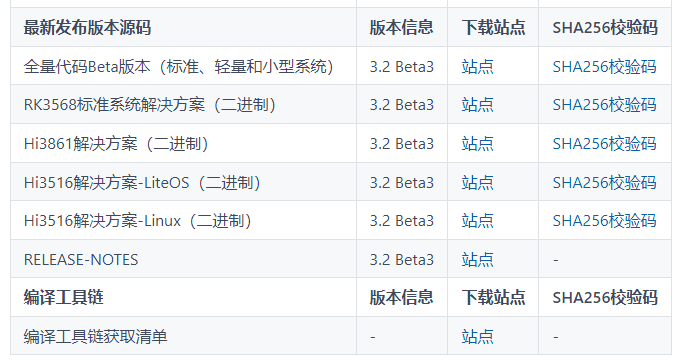
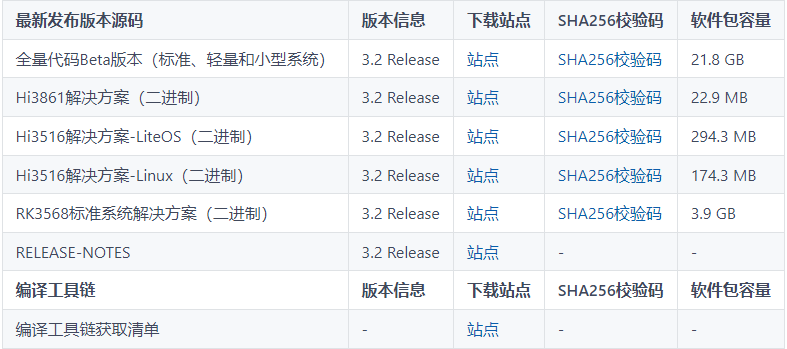
List组件的使用之商品列表（ArkTS）

diff --git a/ETSUI/List/README.md b/ETSUI/List/README.md
@@ -2,7 +2,7 @@
 
 ## 介绍
 
-openHarmony ArkTS提供了丰富的接口和组件，开发者可以根据实际场景和开发需求，选用不同的组件和接口。在本篇CodeLab中，我们使用Scroll、List以及LazyForEach实现一个商品列表的页面，并且拥有下拉刷新，懒加载和到底提示的效果。效果图如下：
+OpenHarmony ArkTS提供了丰富的接口和组件，开发者可以根据实际场景和开发需求，选用不同的组件和接口。在本篇Codelab中，我们使用Scroll、List以及LazyForEach实现一个商品列表的页面，并且拥有下拉刷新，懒加载和到底提示的效果。效果图如下：
 
 ![](figures/List组件的使用.gif)
 
@@ -17,19 +17,19 @@ openHarmony ArkTS提供了丰富的接口和组件，开发者可以根据实际
 
 ### 软件要求
 
--   [DevEco Studio](https://gitee.com/openharmony/docs/blob/master/zh-cn/application-dev/quick-start/start-overview.md#%E5%B7%A5%E5%85%B7%E5%87%86%E5%A4%87)版本：DevEco Studio 3.1 Canary1及以上版本。
+-   [DevEco Studio](https://gitee.com/openharmony/docs/blob/master/zh-cn/application-dev/quick-start/start-overview.md#%E5%B7%A5%E5%85%B7%E5%87%86%E5%A4%87)版本：DevEco Studio 3.1 Beta2及以上版本。
 -   OpenHarmony SDK版本：API version 9及以上版本。
 
 ### 硬件要求
 
 -   开发板类型：[润和RK3568开发板](https://gitee.com/openharmony/docs/blob/master/zh-cn/device-dev/quick-start/quickstart-appendix-rk3568.md)。
--   OpenHarmony系统：3.2 Beta3及以上版本。
+-   OpenHarmony系统：3.2 Release及以上版本。
 
 ### 环境搭建
 
 完成本篇Codelab我们首先要完成开发环境的搭建，本示例以**RK3568**开发板为例，参照以下步骤进行：
 
-1.  [获取OpenHarmony系统版本](https://gitee.com/openharmony/docs/blob/master/zh-cn/device-dev/get-code/sourcecode-acquire.md#%E8%8E%B7%E5%8F%96%E6%96%B9%E5%BC%8F3%E4%BB%8E%E9%95%9C%E5%83%8F%E7%AB%99%E7%82%B9%E8%8E%B7%E5%8F%96)：标准系统解决方案（二进制）。以3.2 Beta3版本为例：
+1.  [获取OpenHarmony系统版本](https://gitee.com/openharmony/docs/blob/master/zh-cn/device-dev/get-code/sourcecode-acquire.md#%E8%8E%B7%E5%8F%96%E6%96%B9%E5%BC%8F3%E4%BB%8E%E9%95%9C%E5%83%8F%E7%AB%99%E7%82%B9%E8%8E%B7%E5%8F%96)：标准系统解决方案（二进制）。以3.2 Release版本为例：
 
     ![](figures/zh-cn_image_0000001405854998.png)
 
